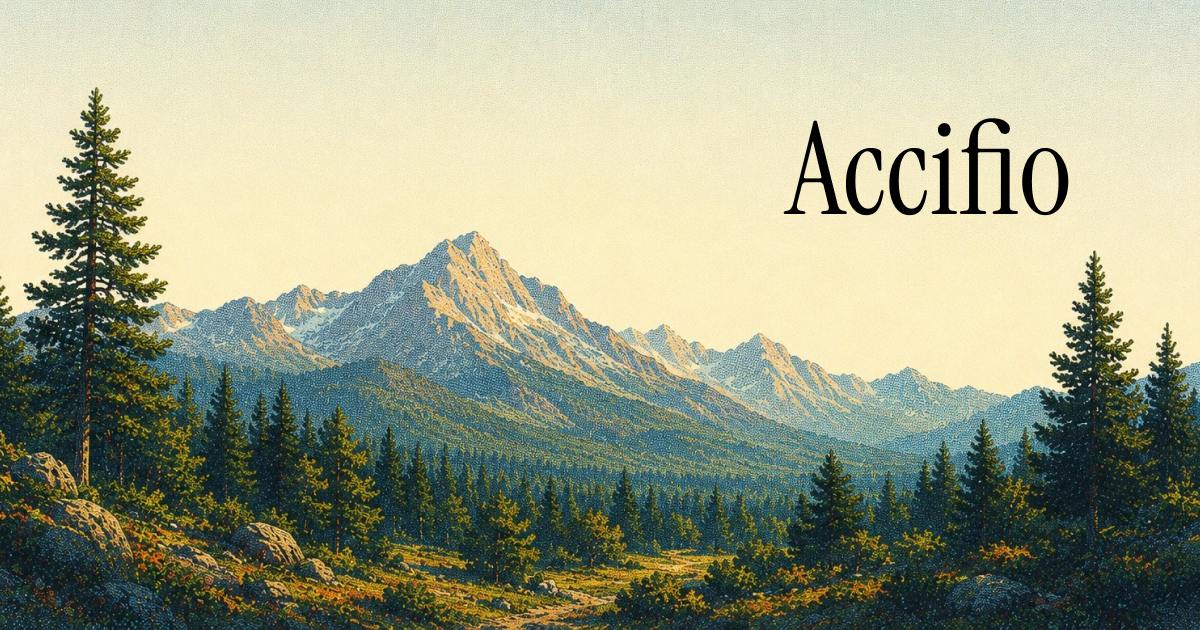
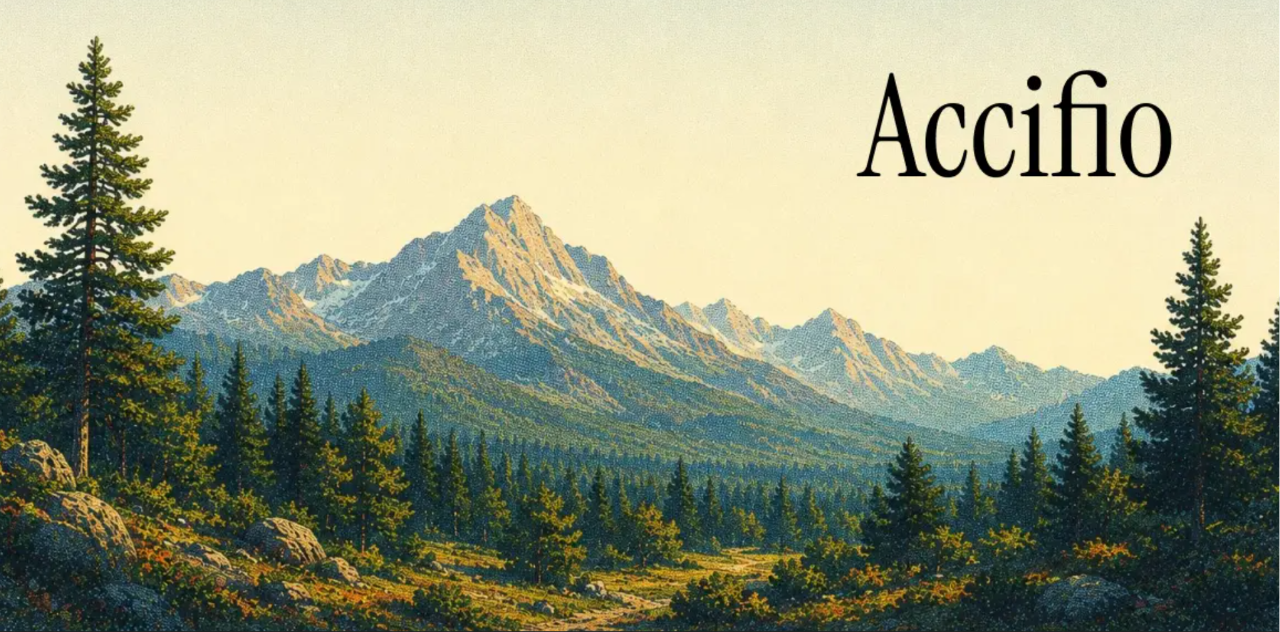
feat: addded new landing page section - feat: Implemented show all and show less feature

diff --git a/src/components/Projects.tsx b/src/components/Projects.tsx
@@ -1,51 +1,89 @@
+"use client";
+
+import { useState, useRef } from "react";
 import projects from "@/lib/data/projects";
 import { FaLink, FaDesktop } from "react-icons/fa";
 import Image from "next/image";
 import { FaGithub } from "react-icons/fa";
+import { AnimatePresence, motion } from "framer-motion";
 
 export default function Projects() {
+  const VISIBLE_COUNT = 2;
+  const [expanded, setExpanded] = useState(false);
+  const visibleProjects = expanded ? projects : projects.slice(0, VISIBLE_COUNT);
+  const containerRef = useRef<HTMLDivElement>(null);
+
+  const handleToggle = () => {
+    if (expanded) {
+      // collapsing: scroll the section into view first so the
+      // shrinking height doesn't yank the viewport around
+      containerRef.current?.scrollIntoView({ behavior: "smooth", block: "start" });
+    }
+    setExpanded((prev) => !prev);
+  };
+
   return (
-    <div className="flex justify-between flex-wrap">
-      {projects.length !== 0 &&
-        projects.map((el, i) => (
-          <div
-            className="w-full md:w-[48%] mb-10 p-3 bg-[var(--card)] rounded-2xl relative"
-            key={i}
-          >
-            {el.name === "Dandoo" && (
-              <div className="absolute right-1/2 border border-[var(--border)] px-3 py-1 rounded-full bg-[var(--card)] top-0 translate-x-1/2 text-xs flex items-center justify-center gap-2">
-                <FaDesktop className="text-sm" />
-                <p>Built for big screens</p>
-              </div>
-            )}
-            {/* add blurring later */}
-            <Image
-              src={el.img}
-              alt="binary-blogs-img"
-              width={800}
-              height={600}
-              className="w-full rounded-2xl h-auto"
-            />
-            <h3 className="font my-1">{el.name}</h3>
-            <p className="text-[var(--secondary)] leading-5 text-sm ">{el.details}</p>
-            <div className="flex items-center gap-5 mt-2">
-              {el.wLink && (
-                <a target="_blank" className="text-sm" href={el.wLink}>
-                  <div className="flex items-center gap-2">
-                    <FaLink />
-                    <p className="hover:underline underline-offset-4">Live link</p>
+    <div ref={containerRef} className="scroll-mt-24">
+      <div className="flex justify-between flex-wrap">
+        <AnimatePresence initial={false}>
+          {visibleProjects.length !== 0 &&
+            visibleProjects.map((el, i) => (
+              <motion.div
+                key={el.name ?? i}
+                layout
+                initial={{ opacity: 0, y: 16 }}
+                animate={{ opacity: 1, y: 0 }}
+                exit={{ opacity: 0, y: -16 }}
+                transition={{ duration: 0.35, ease: "easeInOut" }}
+                className="w-full md:w-[48%] mb-10 p-3 bg-[var(--card)] rounded-2xl relative"
+              >
+                {el.name === "Dandoo" && (
+                  <div className="absolute right-1/2 border border-[var(--border)] px-3 py-1 rounded-full bg-[var(--card)] top-0 translate-x-1/2 text-xs flex items-center justify-center gap-2">
+                    <FaDesktop className="text-sm" />
+                    <p>Built for big screens</p>
                   </div>
-                </a>
-              )}
-              <a target="_blank" className="text-sm" href={el.gLink}>
-                <div className="flex items-center gap-2">
-                  <FaGithub />
-                  <p className="hover:underline underline-offset-4">Repo link</p>
+                )}
+                {/* add blurring later */}
+                <Image
+                  src={el.img}
+                  alt="binary-blogs-img"
+                  width={800}
+                  height={600}
+                  className="w-full rounded-2xl h-auto"
+                />
+                <h3 className="font my-1">{el.name}</h3>
+                <p className="text-[var(--secondary)] leading-5 text-sm ">{el.details}</p>
+                <div className="flex items-center gap-5 mt-2">
+                  {el.wLink && (
+                    <a target="_blank" className="text-sm" href={el.wLink}>
+                      <div className="flex items-center gap-2">
+                        <FaLink />
+                        <p className="hover:underline underline-offset-4">Live link</p>
+                      </div>
+                    </a>
+                  )}
+                  <a target="_blank" className="text-sm" href={el.gLink}>
+                    <div className="flex items-center gap-2">
+                      <FaGithub />
+                      <p className="hover:underline underline-offset-4">Repo link</p>
+                    </div>
+                  </a>
                 </div>
-              </a>
-            </div>
-          </div>
-        ))}
+              </motion.div>
+            ))}
+        </AnimatePresence>
+      </div>
+
+      {projects.length > VISIBLE_COUNT && (
+        <div className="flex justify-center -mt-4">
+          <button
+            onClick={handleToggle}
+            className="text-sm border border-[var(--border)] px-4 py-1.5 rounded-md hover:bg-[var(--card)] transition-colors"
+          >
+            {expanded ? "Show Less" : "View More"}
+          </button>
+        </div>
+      )}
     </div>
   );
 }

diff --git a/src/components/LandingPage.tsx b/src/components/LandingPage.tsx
@@ -1,0 +1,86 @@
+"use client";
+
+import { FaLink, FaDesktop } from "react-icons/fa";
+import Image from "next/image";
+import landingPages from "@/lib/data/landing-pages";
+import ProjectLoaders from "./loaders/ProjectLoaders";
+import { Suspense, useState, useRef } from "react";
+import { AnimatePresence, motion } from "framer-motion";
+
+export default function LandingPageSection() {
+  return (
+    <section id="landing-page-section" className="mt-8">
+      <h3 className="font-medium mb-4 text-lg">Landing Pages</h3>
+      <Suspense fallback={<ProjectLoaders />}>
+        <LandingPage />
+      </Suspense>
+    </section>
+  );
+}
+
+function LandingPage() {
+  const VISIBLE_COUNT = 2;
+  const [expanded, setExpanded] = useState(false);
+  const visibleLandingPages = expanded
+    ? landingPages
+    : landingPages.slice(0, VISIBLE_COUNT);
+  const containerRef = useRef<HTMLDivElement>(null);
+
+  const handleToggle = () => {
+    if (expanded) {
+      // collapsing: scroll the section into view first so the
+      // shrinking height doesn't yank the viewport around
+      containerRef.current?.scrollIntoView({ behavior: "smooth", block: "start" });
+    }
+    setExpanded((prev) => !prev);
+  };
+
+  return (
+    <div ref={containerRef} className="scroll-mt-24">
+      <div className="flex justify-between flex-wrap">
+        <AnimatePresence initial={false}>
+          {visibleLandingPages.length !== 0 &&
+            visibleLandingPages.map((el, i) => (
+              <motion.a
+                target="_blank"
+                href={el.wLink ?? undefined}
+                key={el.name ?? i}
+                layout
+                initial={{ opacity: 0, y: 16 }}
+                animate={{ opacity: 1, y: 0 }}
+                exit={{ opacity: 0, y: -16 }}
+                transition={{ duration: 0.35, ease: "easeInOut" }}
+                className="w-full md:w-[48%] mb-10 rounded-2xl relative"
+              >
+                {el.name === "Dandoo" && (
+                  <div className="absolute right-1/2 border border-[var(--border)] px-3 py-1 rounded-full bg-[var(--card)] top-0 translate-x-1/2 text-xs flex items-center justify-center gap-2">
+                    <FaDesktop className="text-sm" />
+                    <p>Built for big screens</p>
+                  </div>
+                )}
+                {/* add blurring later */}
+                <Image
+                  src={el.img}
+                  alt={el.name}
+                  width={800}
+                  height={600}
+                  className="w-full rounded-2xl h-auto"
+                />
+              </motion.a>
+            ))}
+        </AnimatePresence>
+      </div>
+
+      {landingPages.length > VISIBLE_COUNT && (
+        <div className="flex justify-center -mt-4">
+          <button
+            onClick={handleToggle}
+            className="text-sm border border-[var(--border)] px-4 py-1.5 rounded-md hover:bg-[var(--card)] transition-colors"
+          >
+            {expanded ? "Show Less" : "View More"}
+          </button>
+        </div>
+      )}
+    </div>
+  );
+}

diff --git a/src/lib/data/projects.ts b/src/lib/data/projects.ts
@@ -39,30 +39,14 @@ const projects: ProjectType[] = [
     details:
       "A cool and minimal website for blogging, distraction free. Built using MERN stack with JWT authentication. Also has a cool landing page.",
   },
-  {
-    img: "/proj-imgs/dandoo.png",
-    name: "Dandoo",
-    gLink: "https://github.com/shaikhFaris",
-    wLink: "https://dandooo.netlify.app",
-    details:
-      "A cool and minimal website for blogging, distraction free. Built using MERN stack with JWT authentication. Also has a cool landing page.",
-  },
-  {
-    img: "/proj-imgs/roh.png",
-    name: "Rohum Landing Page",
-    gLink: "https://github.com/shaikhFaris/ROHUM-landing-page",
-    wLink: "https://rohum-landing-page.vercel.app",
-    details:
-      "Built a modern, stunnning landing page for an AI startup. Used R3F for 3D visuals and framer/gsap for cool effects and animations.",
-  },
-  {
-    img: "/proj-imgs/bot.png",
-    name: "Code Analayser Bot",
-    gLink: "https://github.com/shaikhFaris/Code-Analyser-BOT",
-    wLink: null,
-    details:
-      "A discord bot built using nodejs, mongoDB and discordjs. It also has a ranking system based on points earned by correct submissions.",
-  },
+  // {
+  //   img: "/proj-imgs/bot.png",
+  //   name: "Code Analayser Bot",
+  //   gLink: "https://github.com/shaikhFaris/Code-Analyser-BOT",
+  //   wLink: null,
+  //   details:
+  //     "A discord bot built using nodejs, mongoDB and discordjs. It also has a ranking system based on points earned by correct submissions.",
+  // },
 ];
 
 export default projects;

diff --git a/src/sections/About.tsx b/src/sections/About.tsx
@@ -1,4 +1,3 @@
-import Typewriter from "@/components/Typewriter";
 import { motion } from "motion/react";
 
 export default function About() {
@@ -8,9 +7,6 @@ export default function About() {
         <h1 className="text-2xl md:text-5xl font-semibold">
           Hi, I am <span className="text-white">Faris</span>
         </h1>
-        <div className="border min-w-[10%] border-[var(--border)] bg-[var(--card)] px-2 py-1 md:px-4 text-lg font-mono md:py-2 rounded-md ">
-          <Typewriter />
-        </div>
       </div>
       <div className="mt-4 md:mt-8">
         <h3 className="font-medium mb-1 text-lg">About me</h3>

diff --git a/src/pages/Home.tsx b/src/pages/Home.tsx
@@ -8,6 +8,7 @@ import Footer from "@/sections/Footer";
 import { useState } from "react";
 import ArchLoader from "@/components/ArchLoader";
 import { AnimatePresence, motion } from "motion/react";
+import LandingPageSection from "@/components/LandingPage";
 
 export default function Home() {
   const [booted, setBooted] = useState(false);
@@ -31,6 +32,7 @@ export default function Home() {
           <Experience />
           <Skills />
           <ProjectSection />
+          <LandingPageSection />
           <Footer />
         </motion.div>
       )}

diff --git a/src/lib/data/landing-pages.ts b/src/lib/data/landing-pages.ts
@@ -1,0 +1,25 @@
+interface LandingPagesType {
+  img: string;
+  name: string;
+  wLink: string | null;
+}
+
+const landingPages: LandingPagesType[] = [
+  {
+    img: "/proj-imgs/cslive.png",
+    name: "Cslive",
+    wLink: "https://cs-live.netlify.app/",
+  },
+  {
+    img: "/proj-imgs/dandoo.png",
+    name: "Dandoo",
+    wLink: "https://dandooo.netlify.app",
+  },
+  {
+    img: "/proj-imgs/roh.png",
+    name: "Rohum Landing Page",
+    wLink: "https://rohum-landing-page.vercel.app",
+  },
+];
+
+export default landingPages;

diff --git a/src/sections/Footer.tsx b/src/sections/Footer.tsx
@@ -2,7 +2,7 @@ export default function Footer() {
   return (
     <div className="mt-10 relative">
       <p className="absolute left-1/2 pb-1 -translate-x-1/2 text-center z-50 mb-1 text-sm">
-        Portfolio 2.0 © 2025 developed by Faris
+        Portfolio 2.0 © 2026 developed by Faris
       </p>
     </div>
   );
